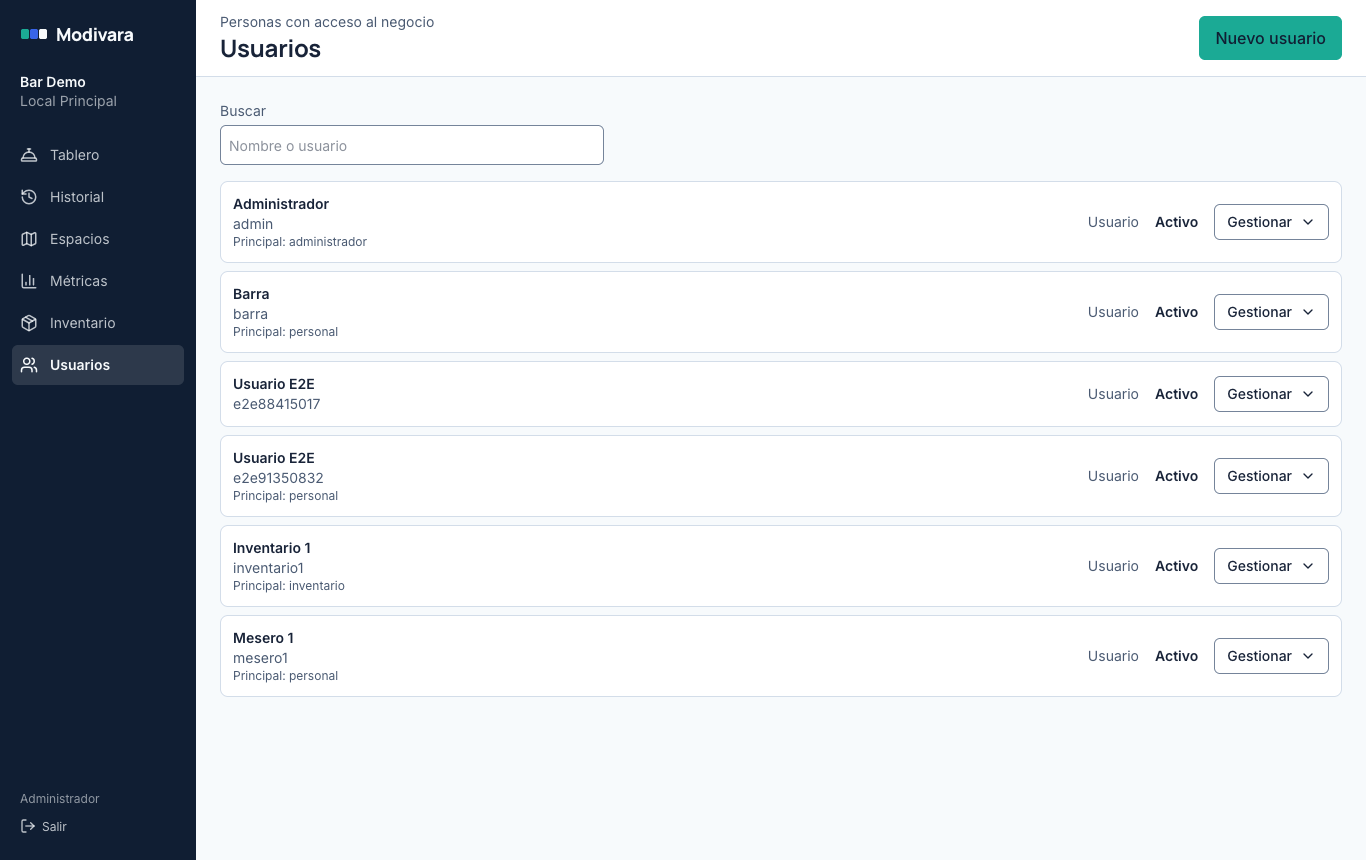
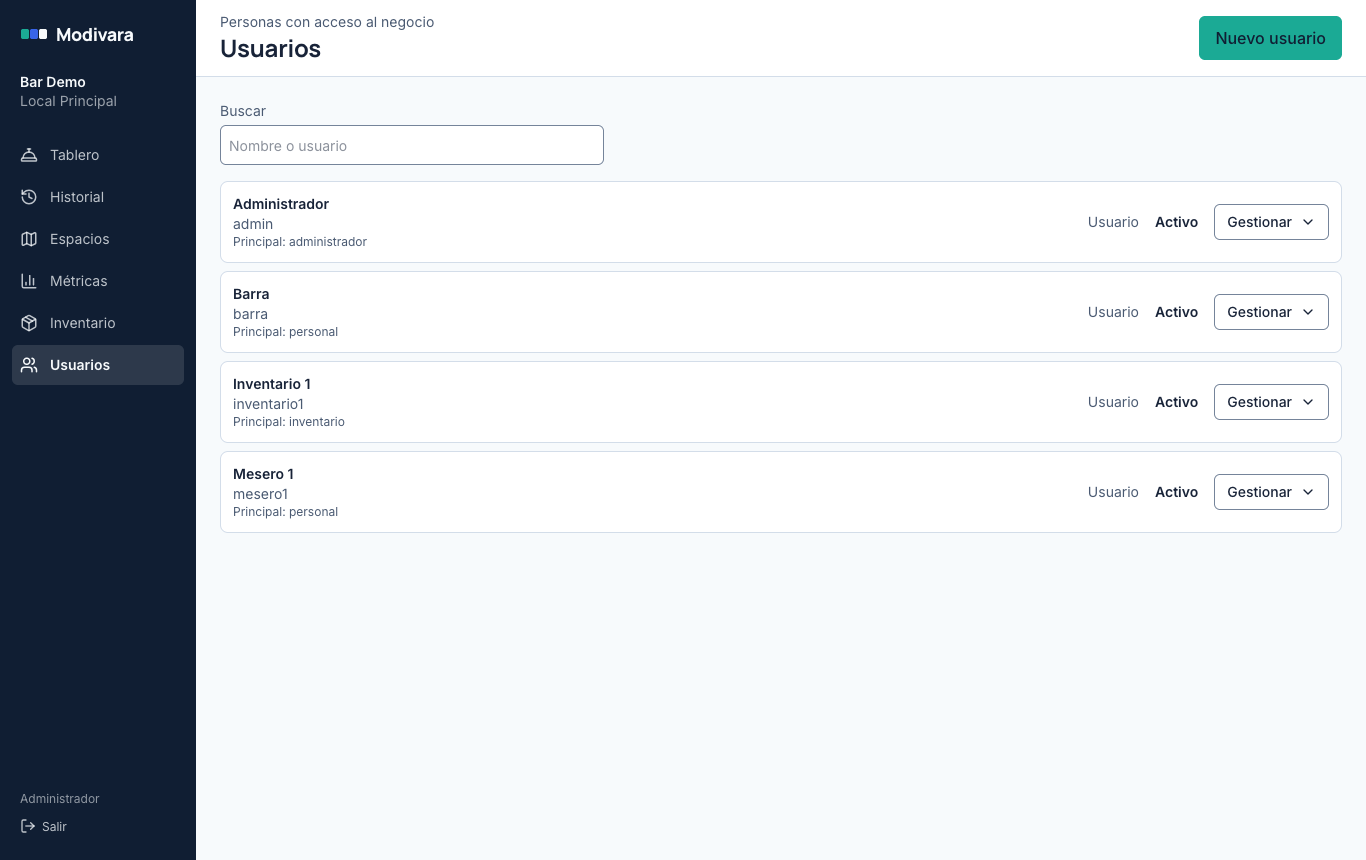
test(e2e): pantallazos sobre la demo recién sembrada y con los arreglos del backlog

diff --git a/docs/pantallazos/README.md b/docs/pantallazos/README.md
@@ -1,6 +1,7 @@
 # Pantallazos por usuario
 
 Generados por `e2e/screens.spec.ts` contra la demo de Docker (`pnpm exec playwright test e2e/screens.spec.ts`; se reescriben en cada corrida).
+Para capturas limpias, correrla sobre una demo recién sembrada (`docker compose down -v`, `up`, seeds; ver `README.md`) antes que el resto de los E2E, que dejan productos y lugares «E2E …». El «Gateway E2E» de la consola lo crea `e2e/global-setup.ts`.
 Cada carpeta muestra solo las vistas del menú que el portal le arma a ese usuario según sus permisos, más las pestañas de cada pantalla.
 
 No hay un rol «cajero»: los roles por local son `admin`, `staff` e `inventory` (`core-contracts/permissions.ts`).
@@ -10,7 +11,7 @@ No hay un rol «cajero»: los roles por local son `admin`, `staff` e `inventory`
 | `bar-demo-admin/` | Administrador | admin | Tablero, Historial, Espacios, Métricas, Inventario, Usuarios |
 | `bar-demo-barra/` | Barra | staff | Tablero, Historial |
 | `bar-demo-mesero1/` | Mesero 1 | staff | Tablero, Historial |
-| `bar-demo-inventario1/` | Inventario 1 | inventory | Métricas, Inventario |
+| `bar-demo-inventario1/` | Inventario 1 | inventory | Métricas, Inventario (pestaña «Lugares de stock»: gestiona productos y lugares, no motivos; DATA-001 §2) |
 | `bar-demo-pisos-admin/` | Administrador de Bar Demo Pisos | admin | Las del admin, en otro negocio |
 | `labs-superadmin/` | Superadmin | plataforma | Consola (sin negocio y actuando en Bar Demo) |
 | `login/` | — | — | Pantalla de entrada de cada negocio |
